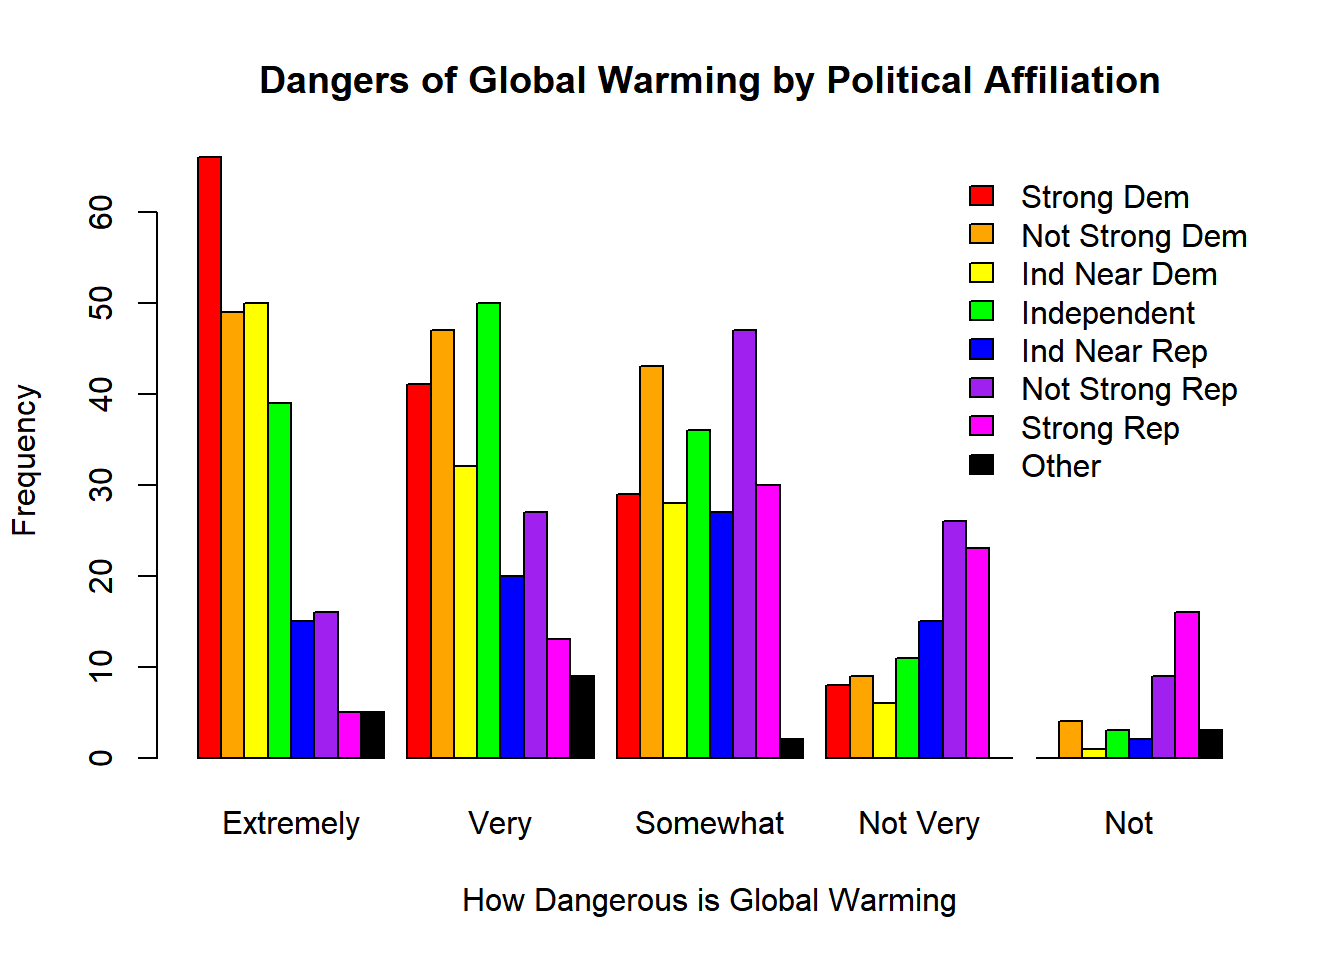
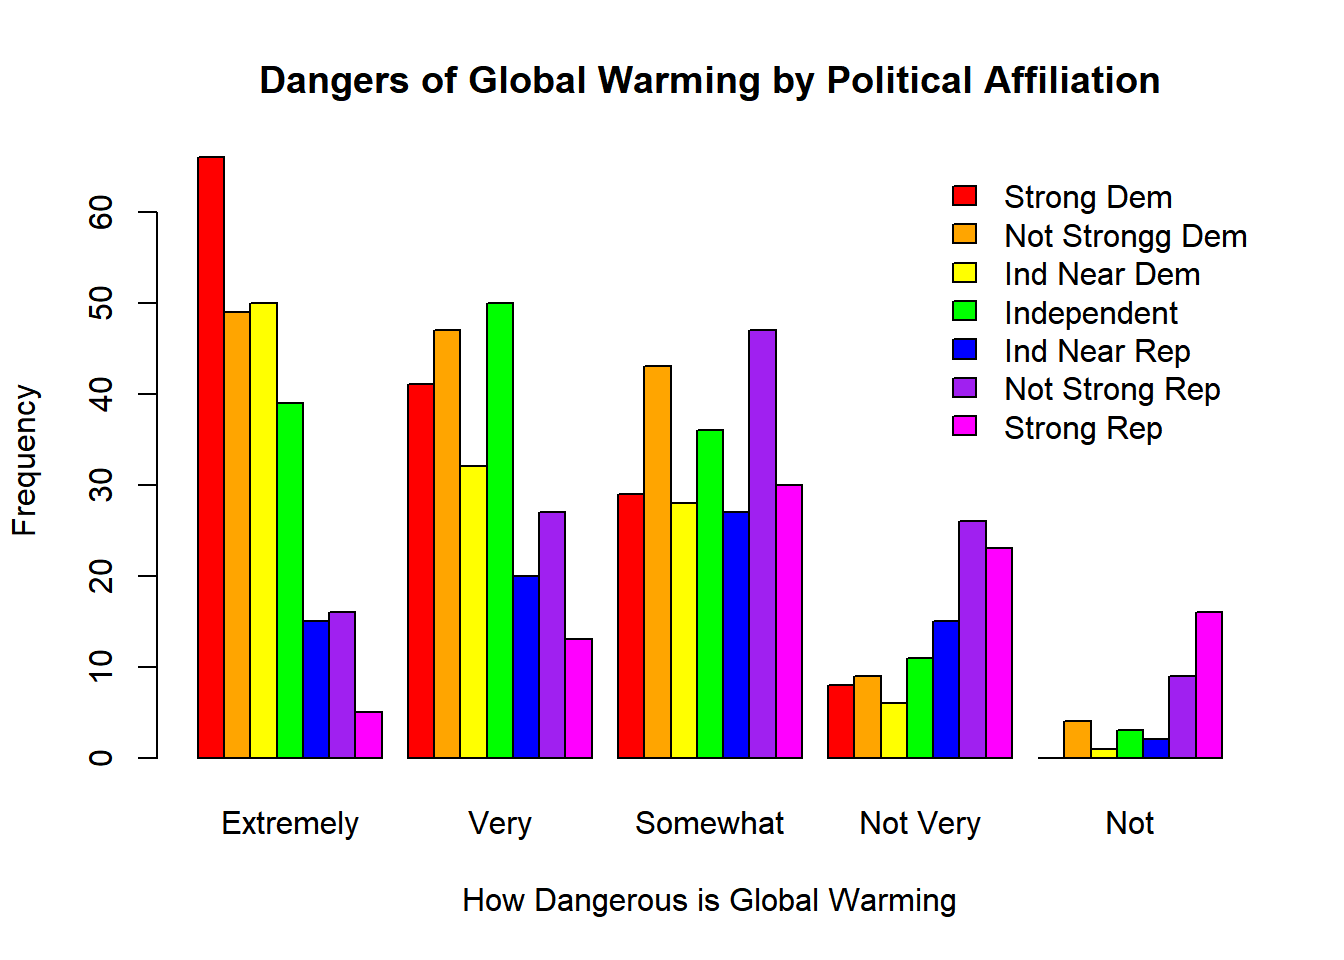
commit

diff --git a/data.html b/data.html
@@ -217,13 +217,13 @@ $(document).ready(function () {
 <p>In this project I will be exploring how people view the dangers of global warming. I wanted to know what population of Americans still don’t believe global warming is dangerous. If we can isolate this group of people we can develop tactics to convince them of the reality of our planet’s destruction and hopefully inspire them to do something about it. If the myriad of other reason’s not to re-elect President Trump don’t hold up, maybe we can convince people to not re-elect him for the very important purpose of not allowing the United States to back out of the Paris Climate Agreement.</p>
 <p>The data I will be using for this project comes from the 2016 General Social Survey. It includes interviews from 62,466 Spanish and English speaking persons over the age of 18, living in non-institutionalized arrangements within the United States. I believe that there is an association between political identification and the view that rising world temperatures are dangerous.</p>
 <p>The null hypothesis for this project asssumes there is no association between political party and view that rising world temperatures are dangerous. The alternative hypothesis is that there is an association between the two.</p>
-<p>The first GSS 2016 variable I will be using is VAR: tempgen. This is an ordinal variable. This GSS question asks: Do you think that a rise in the world’s temperature caused by the greenhouse affect is 1. Extremely dangerous 2.Very dangerous 3.Somewhat dangerous 4. Not very dangerous 5. Not dangerous</p>
+<p>The first GSS 2016 variable I will be using is VAR: tempgen. This is an ordinal variable, however, I will be treating it as an interval ratio variable for statistical analysis. This GSS question asks: Do you think that a rise in the world’s temperature caused by the greenhouse affect is 1. Extremely dangerous 2.Very dangerous 3.Somewhat dangerous 4. Not very dangerous 5. Not dangerous</p>
 <p>Below is a frequency distribution of responses to this question:</p>
 <pre class="r"><code>table (gss$tempgen) </code></pre>
 <pre><code>## 
 ##   1   2   3   4   5 
 ## 240 230 240  98  35</code></pre>
-<p>The second GSS 2016 variable I will be using is VAR: partyID, which is a nominal variable. This question asks: Generally speaking, do you usually think of yourself as a Republican, Democrat, Independent, or what? 0. Strong Democrat 1. Not strong Democrat 2. Indepenent near Democrat 3.Independent 4. Independent near Republican 5. Not strong Republican 6. Strong Republican 7. Other</p>
+<p>The second GSS 2016 variable I will be using is VAR: partyID, which is a nominal variable. This question asks: Generally speaking, do you usually think of yourself as a Republican, Democrat, Independent, or what? 0. Strong Democrat 1. Not strong Democrat 2. Indepenent near Democrat 3.Independent 4. Independent near Republican 5. Not strong Republican 6. Strong Republican.I have excluded the response “Other”, which had 72 responses. This is because it is difficult to interpret results from the response “other”. It could mean a person is “Green Party” or “Beer Lovers Party” which will not give us usefull information.</p>
 <p>Below is a frequency distribution of responses to this question:</p>
 <pre class="r"><code>table(gss$partyid)</code></pre>
 <pre><code>## 

diff --git a/method.html b/method.html
@@ -227,7 +227,7 @@ $(document).ready(function () {
 ##   6  5 13 30 23 16</code></pre>
 <p>This is a bar chart representing the same information. I chose to display this information in a bar chart since it includes nominal and ordinal variables.</p>
 <pre class="r"><code>barplot(TempParty, beside=TRUE, col=colors, main=&quot;Dangers of Global Warming by Political Affiliation&quot;, ylab= &quot;Frequency&quot;, xlab=&quot;How Dangerous is Global Warming&quot;, names.arg=c(&quot;Extremely&quot;, &quot;Very&quot;,&quot;Somewhat&quot;, &quot;Not Very&quot;, &quot;Not&quot;))
-legend(&quot;topright&quot;, c(&quot;Strong Dem&quot;, &quot;Not Strong Dem&quot;, &quot;Ind Near Dem&quot;, &quot;Independent&quot;, &quot;Ind Near Rep&quot;, &quot;Not Strong Rep&quot;, &quot;Strong Rep&quot;, &quot;Other&quot;), bty=&quot;n&quot;, fill=colors)</code></pre>
+legend(&quot;topright&quot;, c(&quot;Strong Dem&quot;, &quot;Not Strongg Dem&quot;, &quot;Ind Near Dem&quot;, &quot;Independent&quot;, &quot;Ind Near Rep&quot;, &quot;Not Strong Rep&quot;, &quot;Strong Rep&quot;), bty=&quot;n&quot;, fill=colors)</code></pre>
 <p><img src="method_files/figure-html/unnamed-chunk-2-1.png" width="672" /></p>
 <p>After reviewing the bar chart I wanted to test the level of association between political identification and belief that global warming is dangerous. To do this I chose to use the chi square test.</p>
 <pre class="r"><code>chisq.test(TempParty)</code></pre>
@@ -237,7 +237,7 @@ legend(&quot;topright&quot;, c(&quot;Strong Dem&quot;, &quot;Not Strong Dem&quot
 ##  Pearson&#39;s Chi-squared test
 ## 
 ## data:  TempParty
-## X-squared = 186.27, df = 28, p-value &lt; 2.2e-16</code></pre>
+## X-squared = 175.75, df = 24, p-value &lt; 2.2e-16</code></pre>
 
 <p>Copyright &copy; 2017 Megan Harrington, Inc. All rights reserved.</p>
 

diff --git a/conclusion.html b/conclusion.html
@@ -214,7 +214,7 @@ $(document).ready(function () {
 </div>
 
 
-
+<p>In our statistical analysis we see that Political Party Identification does have a significant affect on a person’s view of the dangers of global warming.</p>
 
 <p>Copyright &copy; 2017 Megan Harrington, Inc. All rights reserved.</p>
 
